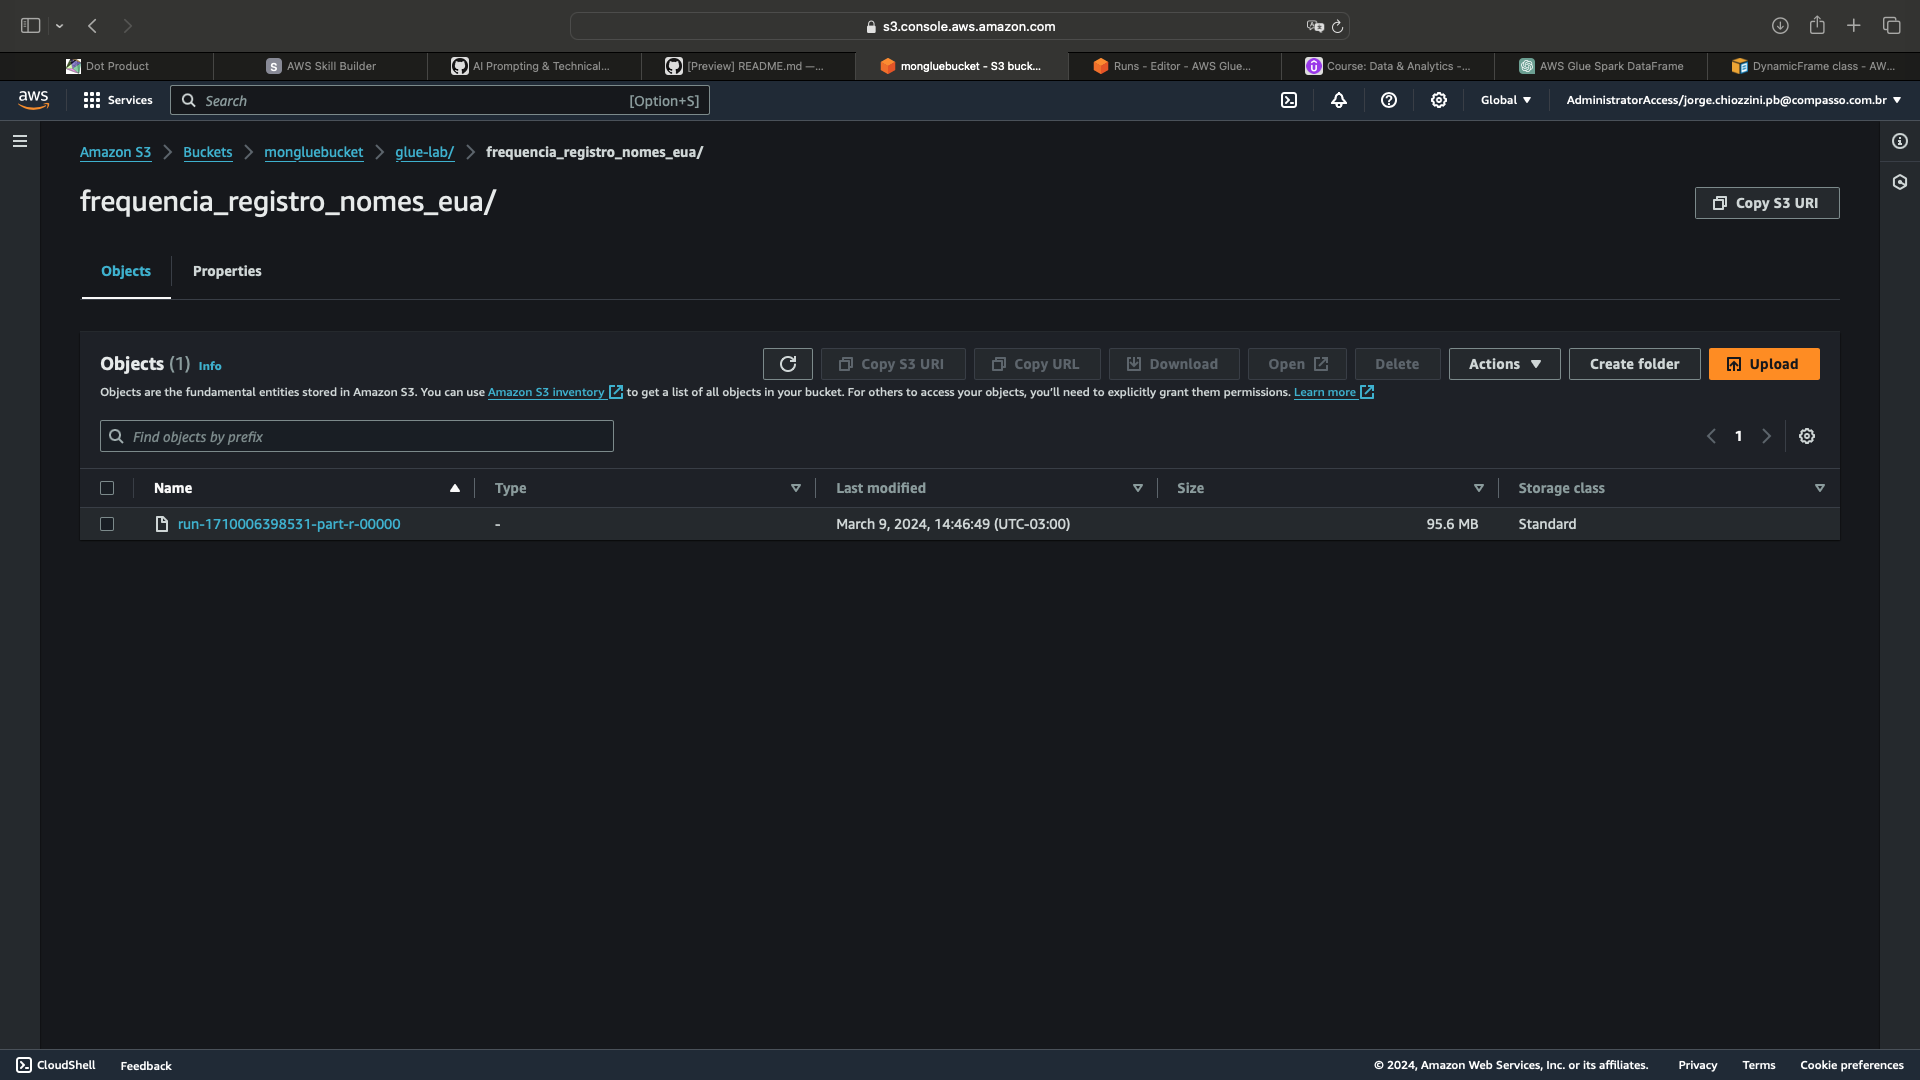
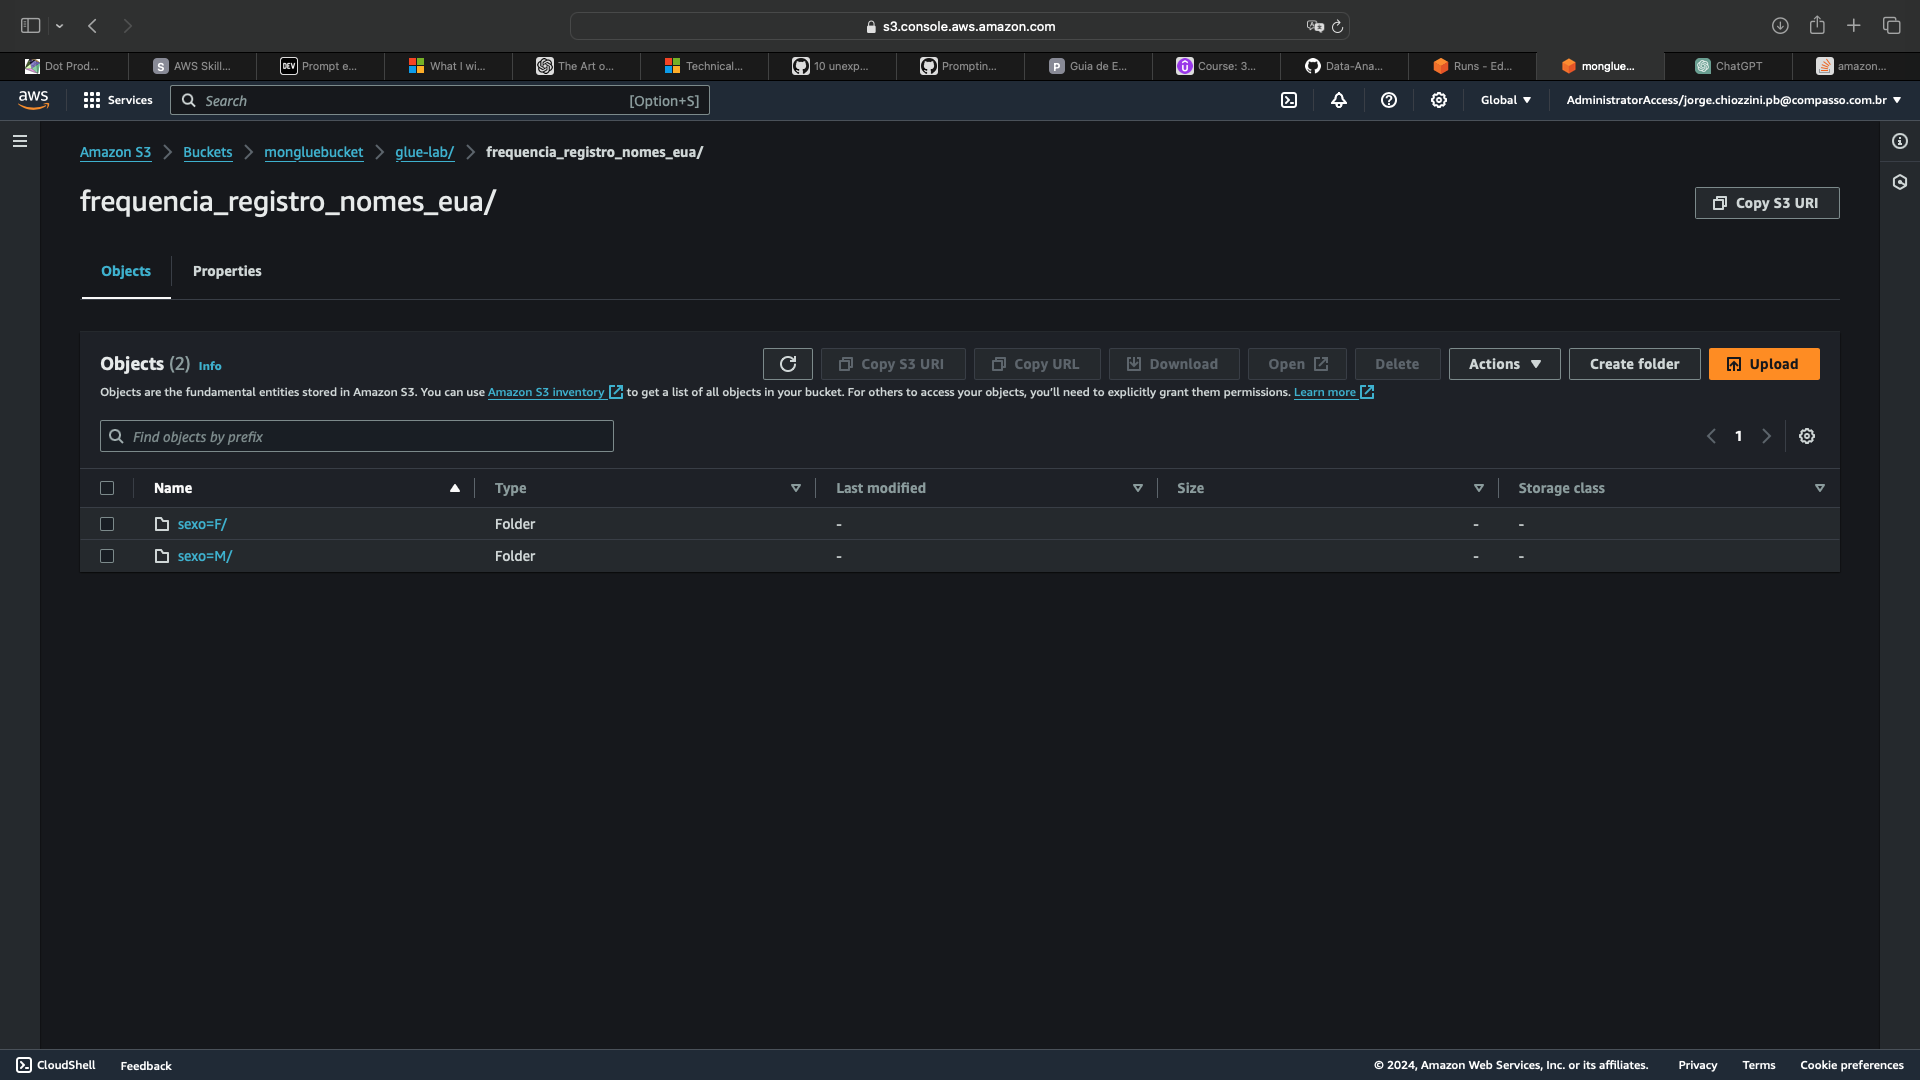
ajuste glue sprint 7

diff --git a/Sprint 7/evidencias/write.py b/Sprint 7/evidencias/write.py
@@ -38,7 +38,7 @@ resp = DynamicFrame.fromDF(df, glueContext, "resp")
 glueContext.write_dynamic_frame.from_options(
     frame = resp,
     connection_type = "s3",
-    connection_options = {"path": target_path},
+    connection_options={"path": target_path, "partitionKeys": ["sexo", "ano"]},  
     format = "json")
 
 job.commit()

diff --git a/Sprint 7/evidencias/Lab.md b/Sprint 7/evidencias/Lab.md
@@ -75,7 +75,7 @@ O particionamento deverá ser realizado pelas colunas sexo e ano (nesta ordem)
 
 <img src="end.png" alt="Texto Alternativo" width="1000">  
 
-<img src="json.png" alt="Texto Alternativo" width="1000">  
+<img src="end2.png" alt="Texto Alternativo" width="1000">  
 
 - [write.py](write.py)
 
